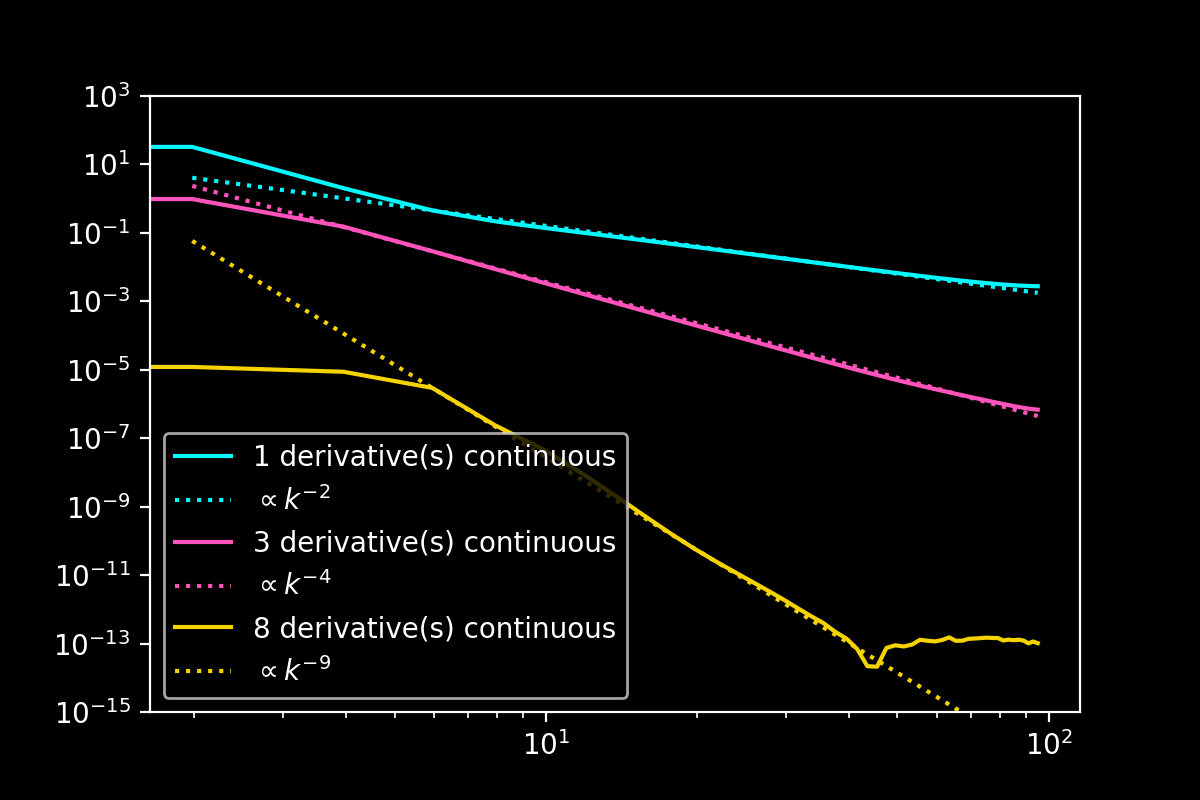
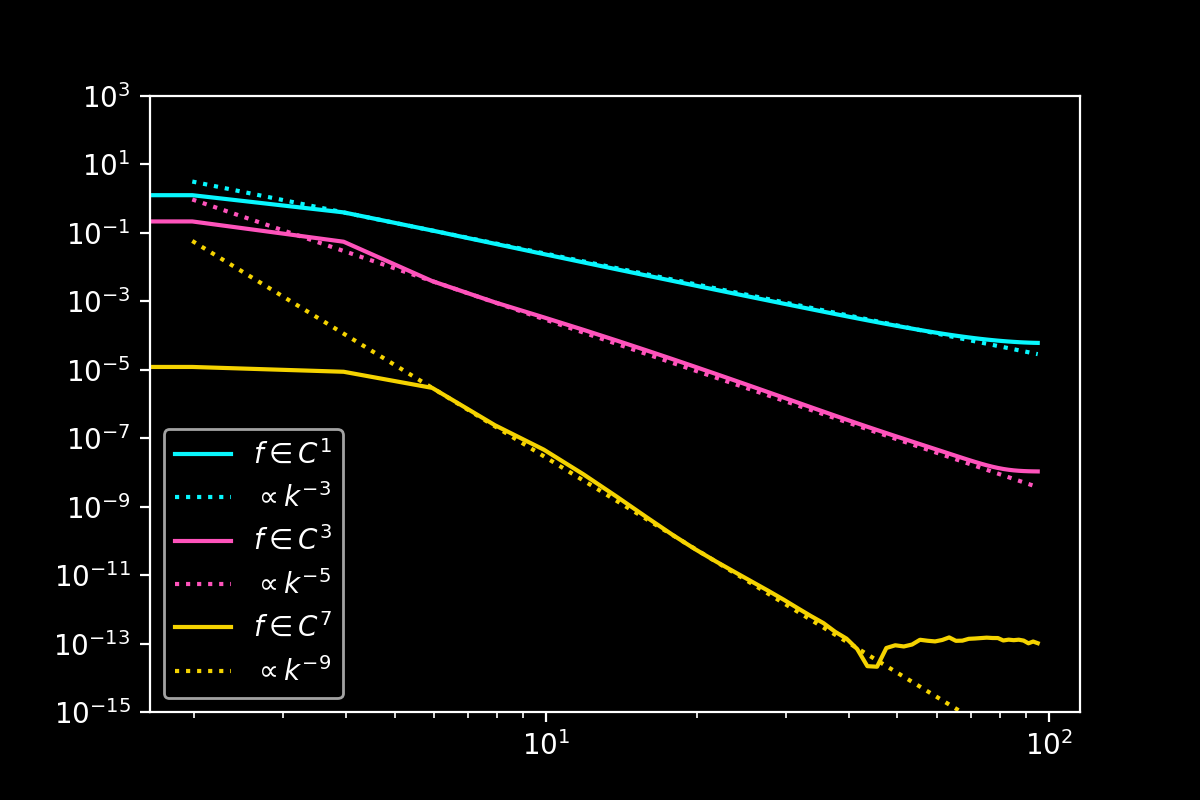
Update

diff --git a/_posts/2024-20-01-when-fourier-fails-subtraction.md b/_posts/2024-20-01-when-fourier-fails-subtraction.md
@@ -15,10 +15,9 @@ This series of posts looks into different strategies for interpolating non-perio
 
 
 ## Subtraction Methods
-To utilize the Fourier transform with high accuracy, we must make our data periodic. Subtraction methods achieve this by decomposing the data into periodic and non-periodic parts. Initially, they estimate the data's derivatives at the domain boundary, often employing finite difference approximations. Then, they identify a suitable set of non-periodic functions that meet the estimated boundary conditions, typically by solving a linear system. These basis functions are subtracted from the original data, leaving a periodic function conducive to an accurate Fourier transform. Moreover, the basis functions can be analytically manipulated.
+A finite Fourier series, associated with a non-periodic function $f$, converges very slowly like $\mathcal{O}(N^{-1})$ where $N$ is the number of Fourier collocation points. One can increase this accuracy by smoothing the non-periodic function at the domain boundaries. Subtracting a known function $F$ at the boundaries so that $g = f - G \in C^0$ (g is continuous at the domain boundary), the associated Fourier series converges like $\mathcal{O}(N^{-2})$. Subtraction methods estimate the function's derivatives at the domain boundary, often employing finite difference approximations. Then, they identify a suitable set of non-periodic functions that meet the estimated boundary conditions, typically by solving a linear system. These basis functions are subtracted from the original data, leaving a smoother function conducive to an accurate Fourier transform. Moreover, the basis functions can be analytically manipulated.
 
-
-Subtraction methods commonly involve subtracting either polynomials or trigonometric functions. Their accuracy hinges on the precise estimation of the data's derivatives at the boundaries. Since the Fourier transform demonstrates n+1-th order convergence if the n-th derivative is continuous, the Fourier coefficients decay as $\propto \mathcal{O}(\frac{1}{k^{n+1}})$. However, the maximum order of convergence is fundamentally limited by a variant of Runge's phenomenon, as it is impossible to estimate arbitrarily high-order derivatives using polynomial stencils. In addition, high-order subtraction methods may be relatively unstable when building PDE solvers. In terms of accuracy, PDE solver using subtraction methods cannot compete with DFTs on periodic grids because they become unstable for high subtraction orders in my experience based on wave and fluid equations.
+Subtraction methods commonly involve subtracting either polynomials or trigonometric functions. Their accuracy hinges on the precise estimation of the data's derivatives at the boundaries. By partial integration, Sköllermo showed that if a function $f \in C^{2p - 1}$, that is, $f$ is $2p-1$ times differentiable and $f^{(2p)}$ is integrable then the Fourier transform demonstrates 2p-1-th order convergence, that is, the Fourier coefficients decay as $\propto \mathcal{O}(\frac{1}{k^{2p - 1}})$. However, the maximum order of convergence is fundamentally limited by a variant of Runge's phenomenon, as it is impossible to estimate arbitrarily high-order derivatives using polynomial stencils. In addition, high-order subtraction methods may be relatively unstable when building PDE solvers. In terms of accuracy, PDE solver using subtraction methods cannot compete with DFTs on periodic grids because they become unstable for high subtraction orders in my experience based on wave and fluid equations.
 
 In the following, I will implement two subtraction methods: trigonometric and polynomial subtraction.
 
@@ -32,7 +31,7 @@ Schematically, the process looks as follows:
 - Accurate Fourier transform of antisymmetric extension
 
 It is useful to construct an antisymmetric extension because the 0th order derivatives, i.e. the function values, are known already.
-Ideally, a sine transform should be used instead of the of the antisymmetric extension. It has the same analytical properties as the antisymmetric extension and is twice as fast as a DFT. The stability and complexity of the algorithm is determined by how many derivatives are estimated. All odd derivatives of the antisymmetric extension exist at the domain boundary for smooth input data. Therefore, ensuring continuity of the 0th, 2nd, 4th etc. derivative at the domain boundary ensures 3rd, 5th, 7th order etc. convergence. There are additional discretisation errors from the DFT and the approximation of the boundary derivatives discussed in the above references.
+Ideally, a sine transform should be used instead of the of the antisymmetric extension. It has the same analytical properties as the antisymmetric extension and is twice as fast as a DFT. The stability and complexity of the algorithm is determined by how many derivatives are estimated. All odd derivatives of the antisymmetric extension are continuous at the domain boundary for smooth input data. Therefore, ensuring continuity of the function at the domain boundary implies that the Fourier coefficients decay like $\mathcal{O}(N^{-3}$, faster than without the antisymmetric extension. Note that there are additional discretisation errors from the DFT and the approximation of the boundary derivatives discussed in the above references.
 
 The following figure demonstrates the latter process using an exponential function.
 <img src="{{ site.baseurl }}/assets/img/nonperiodicinterpolation-python/subtraction_trigonometric_extension.png" alt="">
@@ -367,7 +366,7 @@ fig.savefig("figures/subtraction_trigonometric_accuracy.png")
 
 ## Polynomial Subtraction
 
-For the polynomial subtraction, I demonstrate a slightly different approach. Instead of constructing an antisymmetric extension, I simply subtract all derivatives so that the remainder becomes periodic. The remainder can then be expanded using a DFT. In principle, one might expect antisymmetric extensions to yield higher accuracy because they achieve more continuous derivatives with the same polynomial order. However, my numerical experiments indicate that this is not necessarily the case.
+For the polynomial subtraction, I demonstrate a slightly different approach. Instead of constructing an antisymmetric extension, I simply subtract all derivatives so that the remainder becomes periodic. The remainder can then be expanded using a DFT. In principle, one might expect antisymmetric extensions to yield higher accuracy because they achieve more continuous derivatives with the same polynomial order. However, my numerical experiments indicate that the accuracy limits of both polynomial and trigonometric subtraction because of Runge's phenomenon are similar.
 
 The following figure demonstrates the subtraction of a 9th-order polynomial from an exponential function. It is evident that a high-order polynomial can approximate exponential functions well, and the remainder is close to zero.
 <img src="{{ site.baseurl }}/assets/img/nonperiodicinterpolation-python/subtraction_polynomial_extension.png" alt="">
